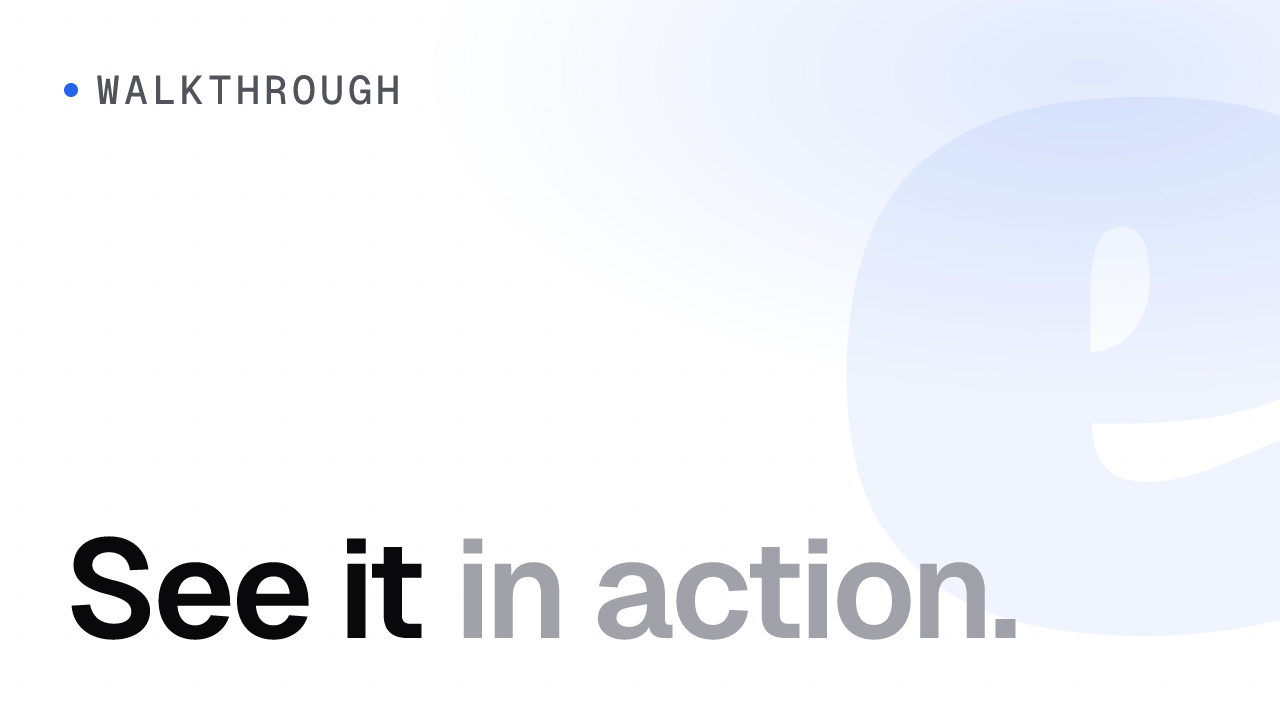
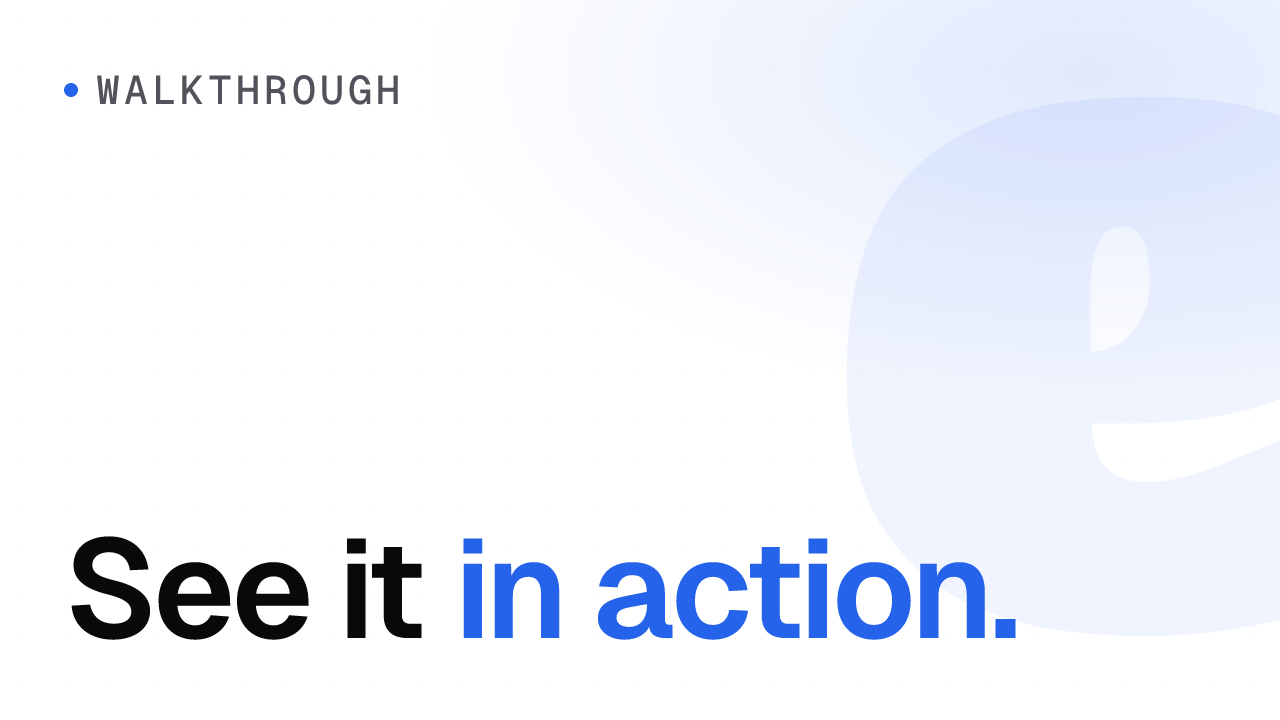
Color www demo poster headline accent brand-blue
Brings "in action." inline with the brand-blue dot and ghost-e wash.

Changed region(s): [[0.4688, 0.7333, 0.8125, 0.8861], [0.3438, 0.7333, 0.4375, 0.8861]]

diff --git a/apps/www/scripts/generate-demo-posters.tsx b/apps/www/scripts/generate-demo-posters.tsx
@@ -186,7 +186,7 @@ function PagePoster() {
 						fontFamily: "Geist Sans",
 						fontWeight: 600,
 						fontSize: 140,
-						color: ZINC_400,
+						color: BRAND_BLUE,
 						lineHeight: 0.95,
 						letterSpacing: -5,
 					}}
